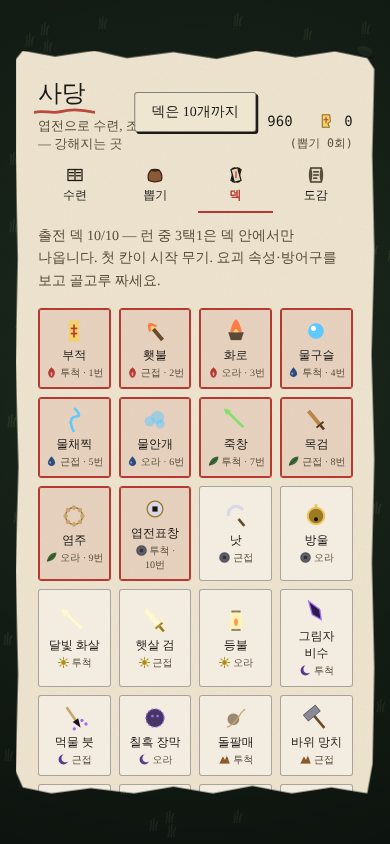
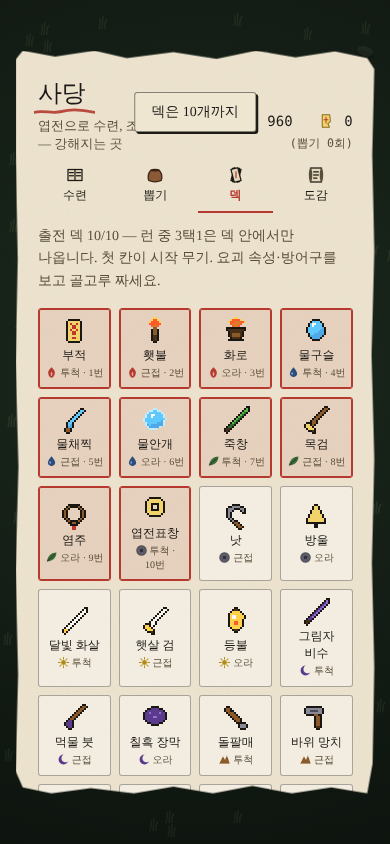
밤의 퇴마사 v15: 무기 26종 픽셀 아이콘(요괴와 동일 스프라이트 방식)
Claude-Session: https://claude.ai/code/session_01RmJvEQYZMU41pMZMsu4AKq

diff --git a/docs/04-night-exorcist/design.md b/docs/04-night-exorcist/design.md
@@ -184,3 +184,6 @@ challenge(n) = 1 + 0.975·(1 − 0.86^n)     (밤 단계)
 - 아이콘 시스템(캔버스 → dataURL 캐시): 속성 8(불꽃·물방울·잎·엽전고리·해·달·산·번개), 재화 2(엽전·부적 조각), 수련 5(검·산삼·잎·짚신·호리병). 글자 태그 "화·투척" → 아이콘+타입. 수련은 아이콘 + 5칸 레벨 바
 - 덱 탭 상성 = **두 고리 바퀴**(캔버스, 붉은 화살표 = 이김, 도는 점). 도감·레벨업·상자·결과 전부 아이콘화
 - 버그: 캔버스 뒤에 `innerHTML +=` 하면 캔버스가 재생성돼 그림이 날아간다 → 캔버스는 마지막에 insertBefore. 캐러셀의 프로그램 스크롤 중 scroll 이벤트가 META.stage 를 덮어쓰던 것 → 700ms 가드
+
+## 21. v15 — 무기 아이콘 픽셀화 (10/04)
+- Adobe MCP 로 무기 이미지 생성을 시도하려 했으나: 이 환경의 Adobe 도구엔 **생성형(텍스트→이미지, 생성 채우기)이 없고**(`image_fill_area` 는 단색 채우기), 샌드박스에서 Adobe 업로드 도메인도 차단. → 요괴와 같은 방식의 **14×14 픽셀 스프라이트 26종**을 직접 그려 `GRIDS.w_<id>` 로 넣고 `drawIcon` 이 기본 무기는 스프라이트를 정수 배율로 그림(레벨업 카드·사당·상자·뽑기·도감 전부). 진화 아이콘은 부품 스프라이트 합성, 패시브·수련은 벡터 유지. 투사체 외형은 그대로
